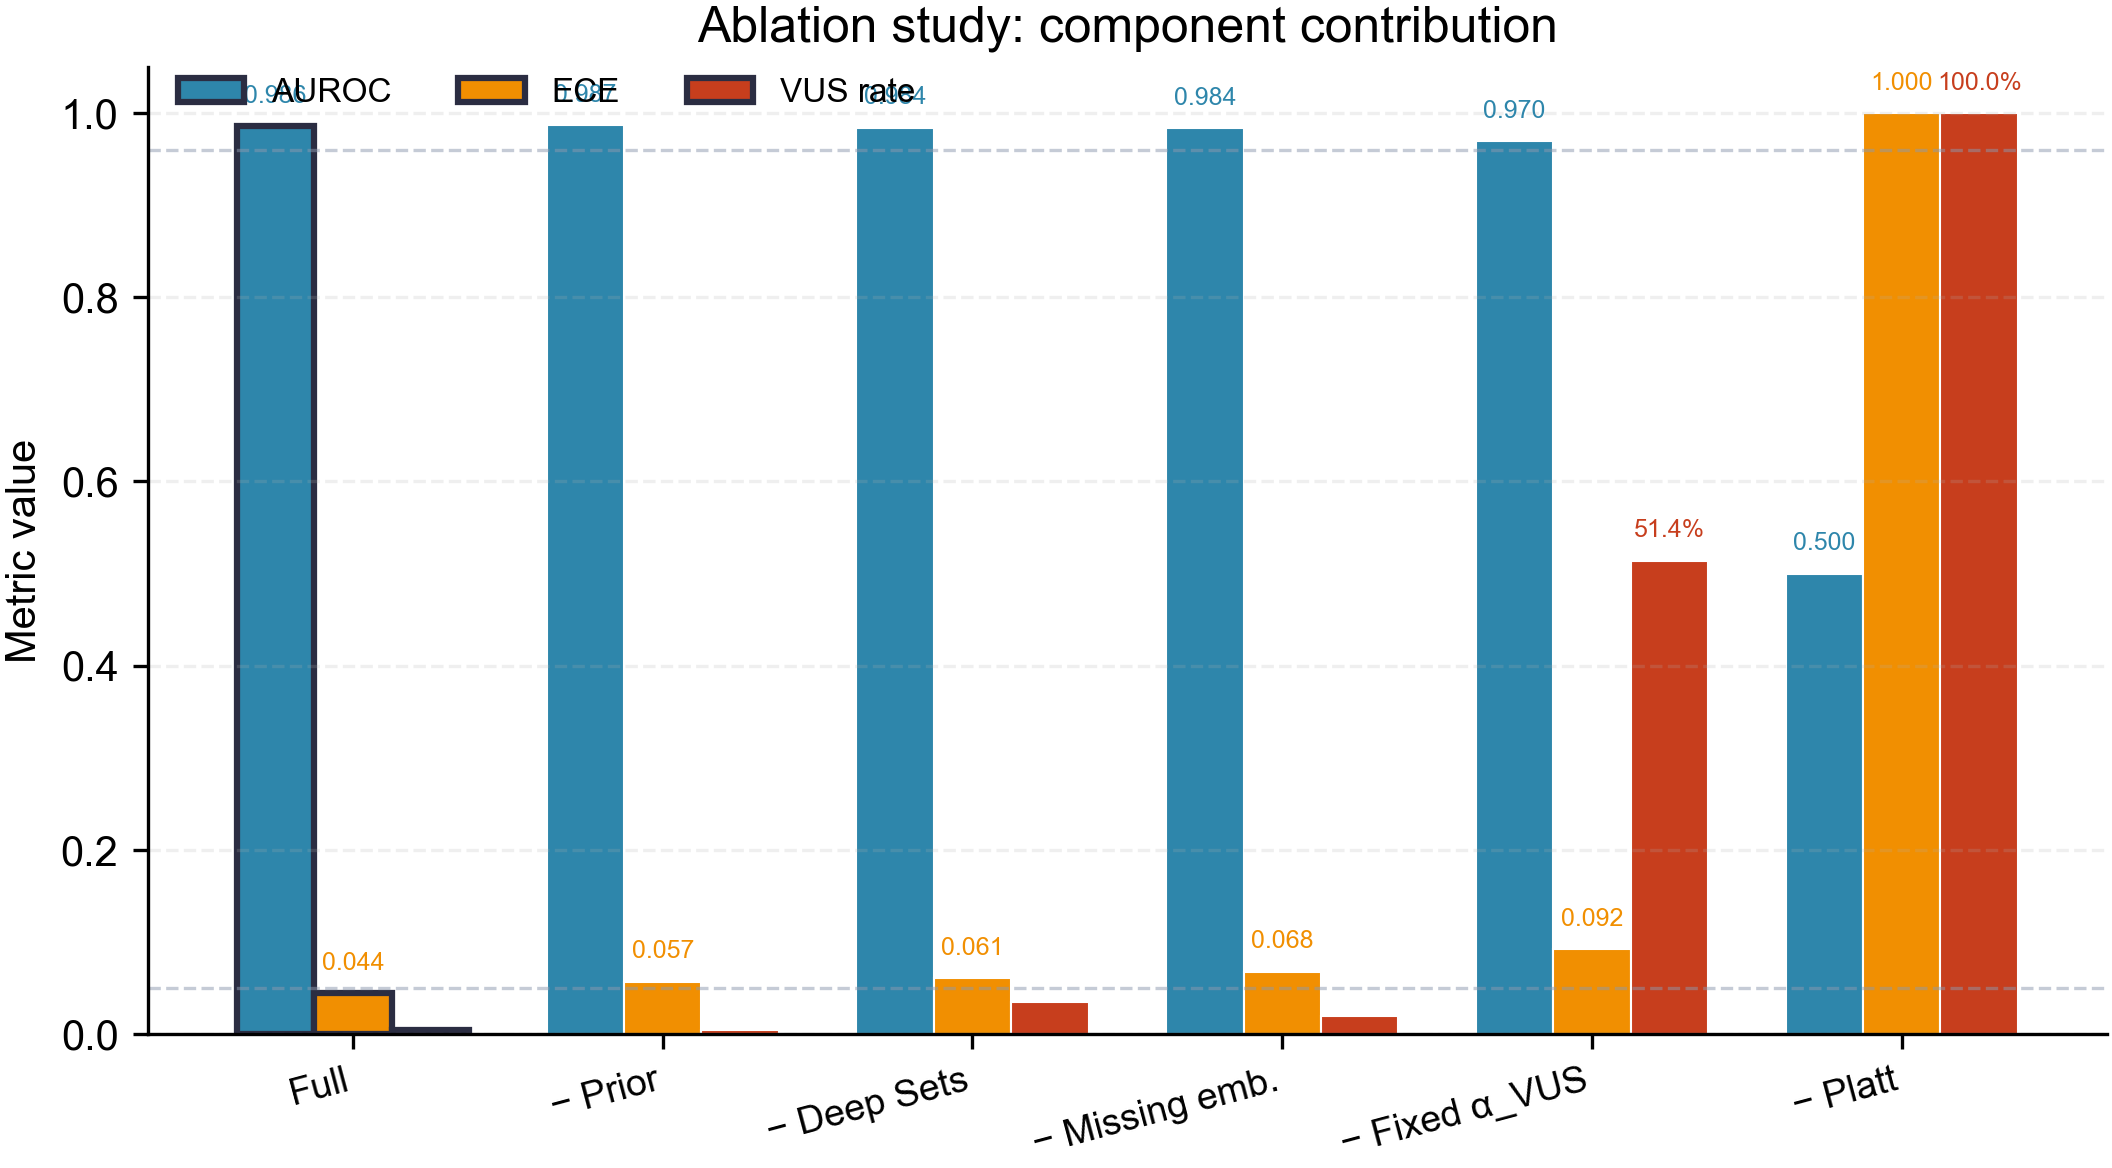
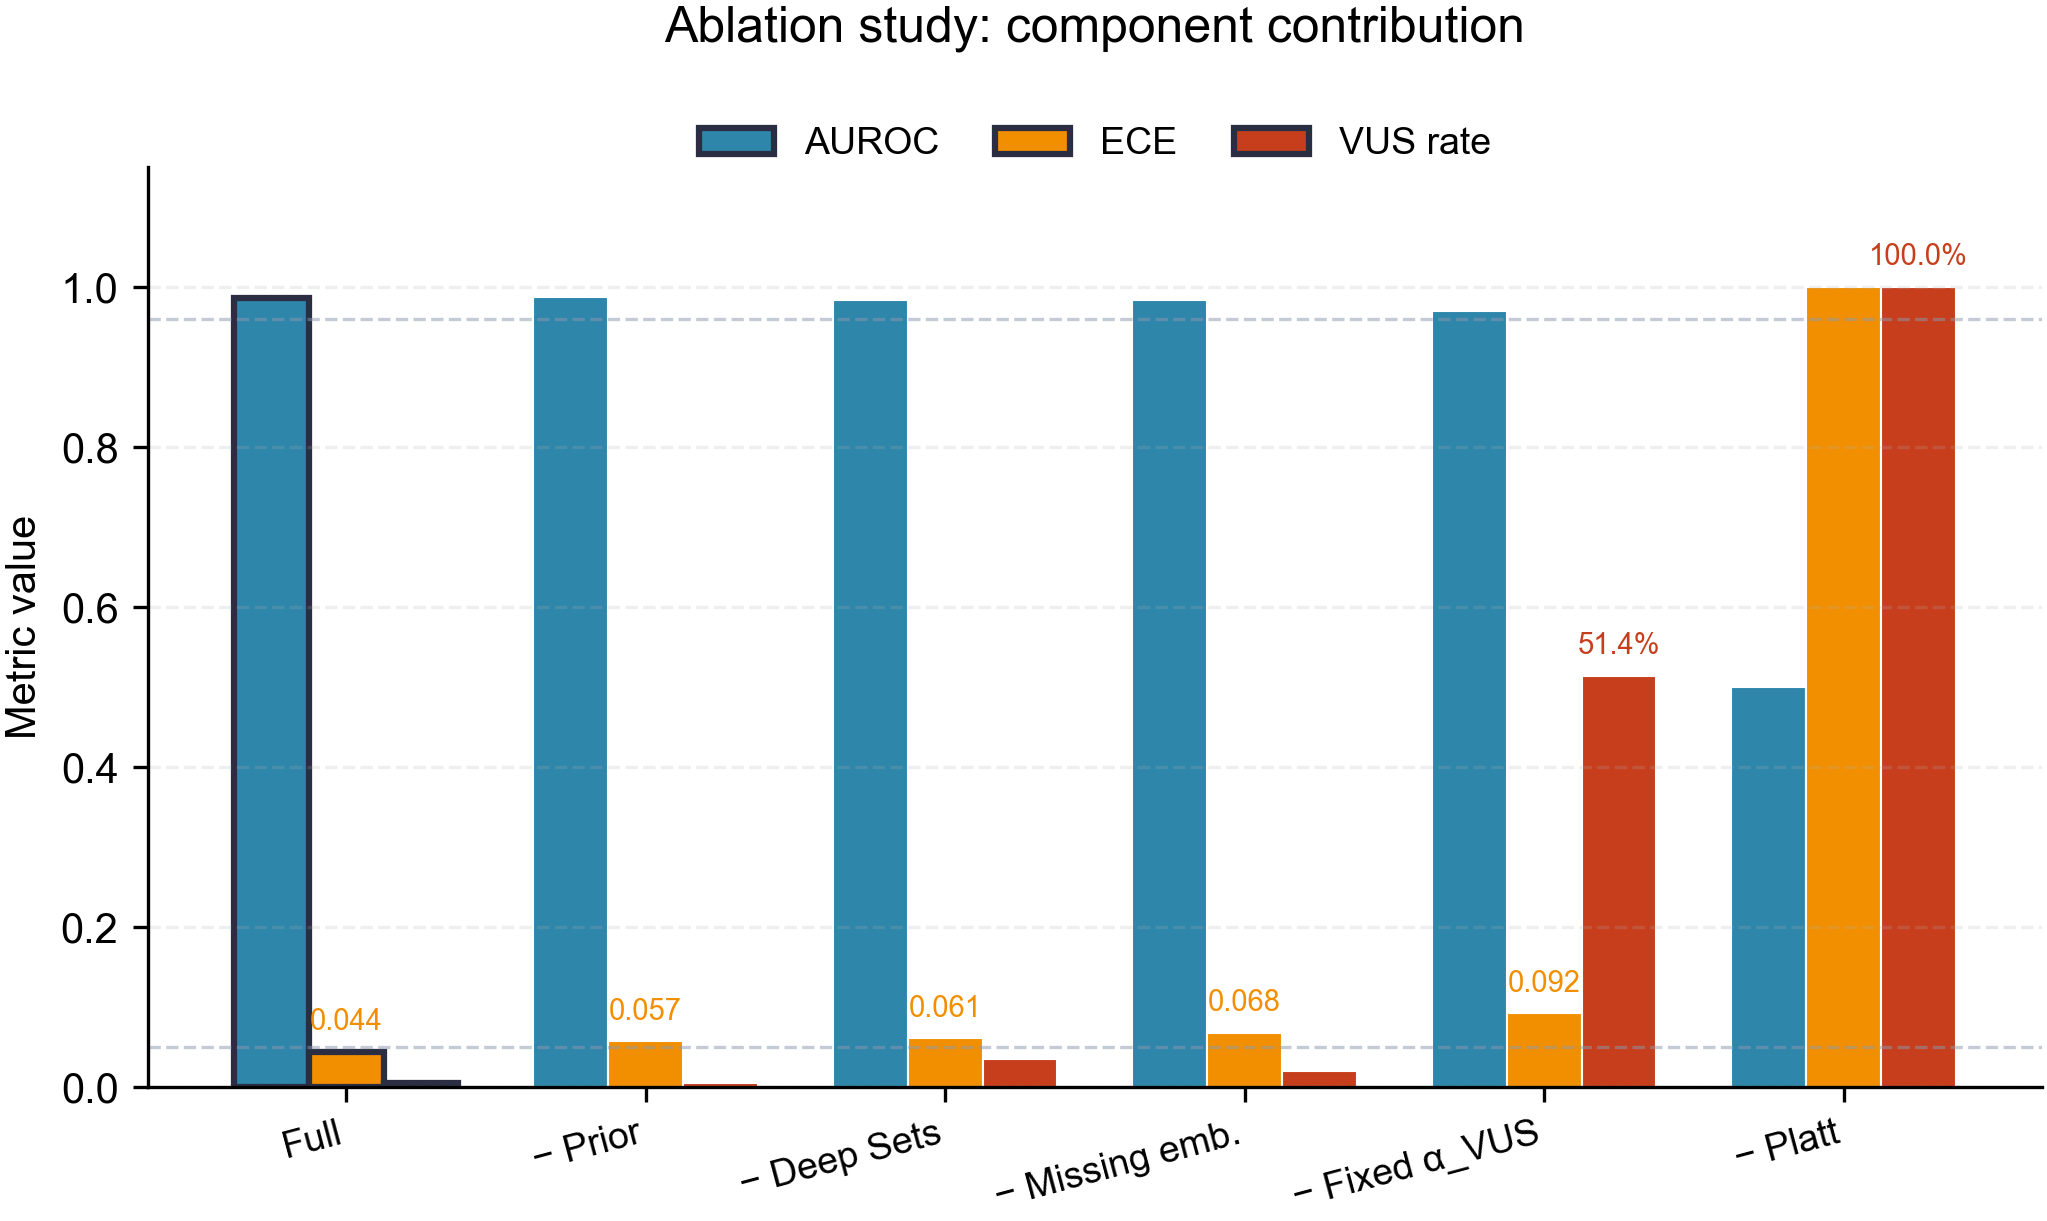
fix(fig5): clean legend placement, remove label overlaps, skip ECE label at ceiling
- Move legend to upper-center with bbox_to_anchor above plot
- Increase figure height and y-limit to prevent clipping
- Remove AUROC value labels (redundant with legend)
- Skip ECE label when >=0.99 to avoid overlap with VUS label
- Add title padding to prevent legend collision

diff --git a/backend/phase1_implementation/paper_figures.py b/backend/phase1_implementation/paper_figures.py
@@ -402,7 +402,7 @@ def figure_5_ablation():
     }
     display_names = [short_names.get(m, m) for m in ordered_models]
 
-    fig, ax = plt.subplots(figsize=(180/25.4, 100/25.4), constrained_layout=True)
+    fig, ax = plt.subplots(figsize=(180/25.4, 110/25.4))
 
     x = np.arange(len(ordered_models))
     width = 0.25
@@ -411,7 +411,7 @@ def figure_5_ablation():
     bars1 = ax.bar(x - width, aurocs, width, label='AUROC', color=COLORS["cefn"], edgecolor='white', linewidth=0.5)
     # ECE bars
     bars2 = ax.bar(x, eces, width, label='ECE', color=COLORS["am"], edgecolor='white', linewidth=0.5)
-    # VUS rate bars (scaled to 0-1 for visibility)
+    # VUS rate bars
     bars3 = ax.bar(x + width, vus_rates, width, label='VUS rate', color=COLORS["dst"], edgecolor='white', linewidth=0.5)
 
     # Highlight full model
@@ -422,25 +422,29 @@ def figure_5_ablation():
     bars3[0].set_edgecolor(COLORS["dark"])
     bars3[0].set_linewidth(1.5)
 
-    # Reference lines (thresholds only, no text to avoid overlap)
+    # Reference lines
     ax.axhline(y=0.96, color=COLORS["gray"], linestyle='--', lw=0.8, alpha=0.5)
     ax.axhline(y=0.05, color=COLORS["gray"], linestyle='--', lw=0.8, alpha=0.5)
 
     ax.set_ylabel('Metric value')
     ax.set_xticks(x)
     ax.set_xticklabels(display_names, rotation=15, ha='right', fontsize=9)
-    ax.set_ylim(0, 1.05)
-    ax.legend(fontsize=8, loc='upper left', frameon=False, ncol=3, bbox_to_anchor=(0, 1.02))
-    ax.set_title('Ablation study: component contribution')
+    ax.set_ylim(0, 1.15)
+    ax.legend(fontsize=9, loc='upper center', frameon=False, ncol=3,
+              bbox_to_anchor=(0.5, 1.08), columnspacing=1.5)
+    ax.set_title('Ablation study: component contribution', pad=30)
     ax.grid(True, alpha=0.2, linestyle='--', axis='y')
 
-    # Add value labels on bars (only for notable values to avoid clutter)
+    # Value labels: ECE only (small, informative); VUS only if >5%
     for i, (a, e, v) in enumerate(zip(aurocs, eces, vus_rates)):
-        ax.text(i - width, a + 0.02, f'{a:.3f}', ha='center', va='bottom', fontsize=6, color=COLORS["cefn"])
-        ax.text(i, e + 0.02, f'{e:.3f}', ha='center', va='bottom', fontsize=6, color=COLORS["am"])
+        # ECE label (skip if ≥0.99 since bar at top is obvious)
+        if e < 0.99:
+            ax.text(i, e + 0.02, f'{e:.3f}', ha='center', va='bottom', fontsize=7, color=COLORS["am"])
+        # VUS label only if significant
         if v > 0.05:
-            ax.text(i + width, v + 0.02, f'{v:.1%}', ha='center', va='bottom', fontsize=6, color=COLORS["dst"])
+            ax.text(i + width, v + 0.02, f'{v:.1%}', ha='center', va='bottom', fontsize=7, color=COLORS["dst"])
 
+    plt.tight_layout()
     fig.savefig(FIGURES_DIR / "figure5_ablation.pdf", format='pdf')
     fig.savefig(FIGURES_DIR / "figure5_ablation.png", format='png')
     plt.close(fig)
